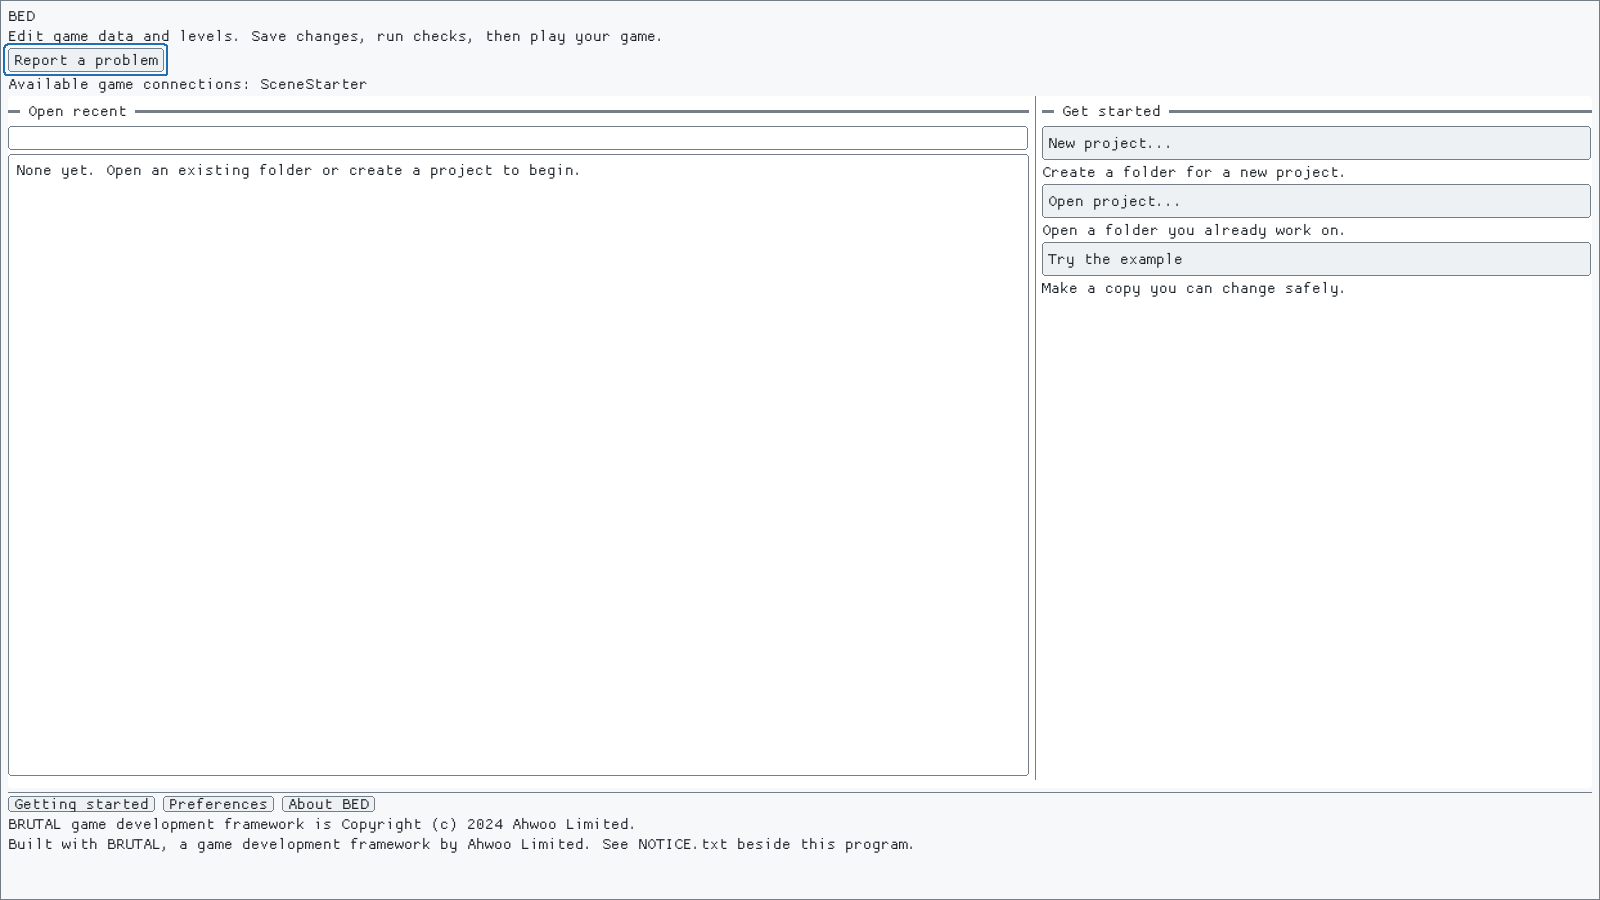
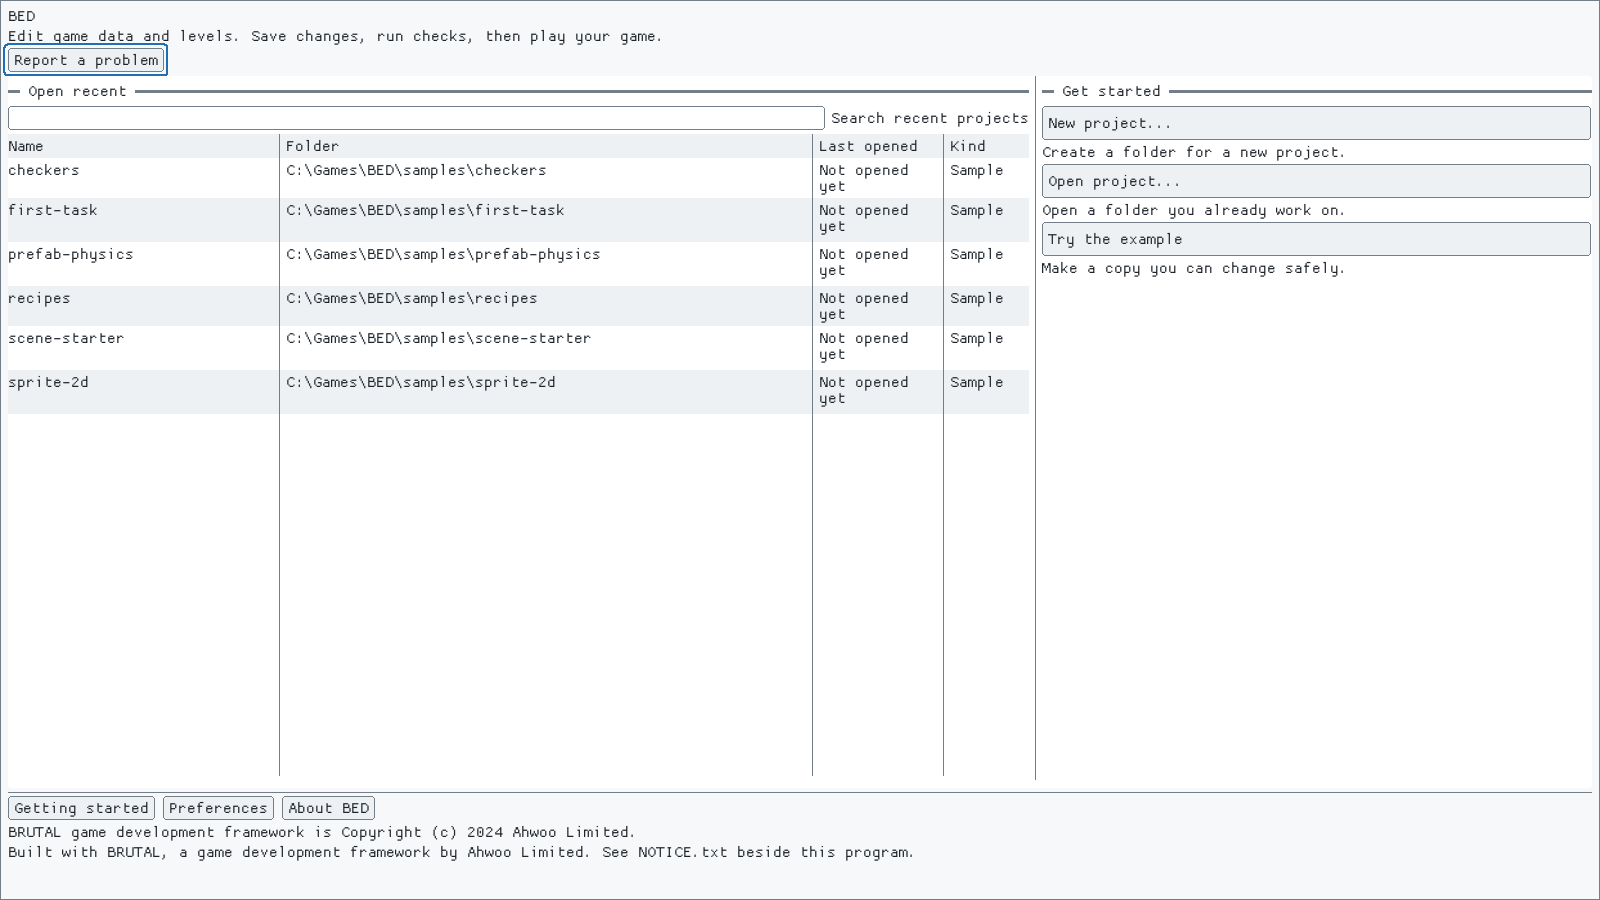
docs: new start screen picture with the samples in the project list

diff --git a/docs/guide/start_here.md b/docs/guide/start_here.md
@@ -12,7 +12,7 @@
 
 BED opens on its start screen. The first time you open a project, BED offers a short guided tour. You can take it now, or skip it and reopen it later from **Help > Take the tour**. This page covers the same ground in more detail.
 
-![The start screen, with Open recent on the left and Get started on the right](../images/guide/start.png)
+![The start screen: your projects and the samples on the left, Get started on the right](../images/guide/start.png)
 
 If Windows says **VCRUNTIME140.dll** is missing, install Microsoft's Visual C++ Redistributable (x64) from <https://aka.ms/vs/17/release/vc_redist.x64.exe> and try again. Most PCs already have it.
 
